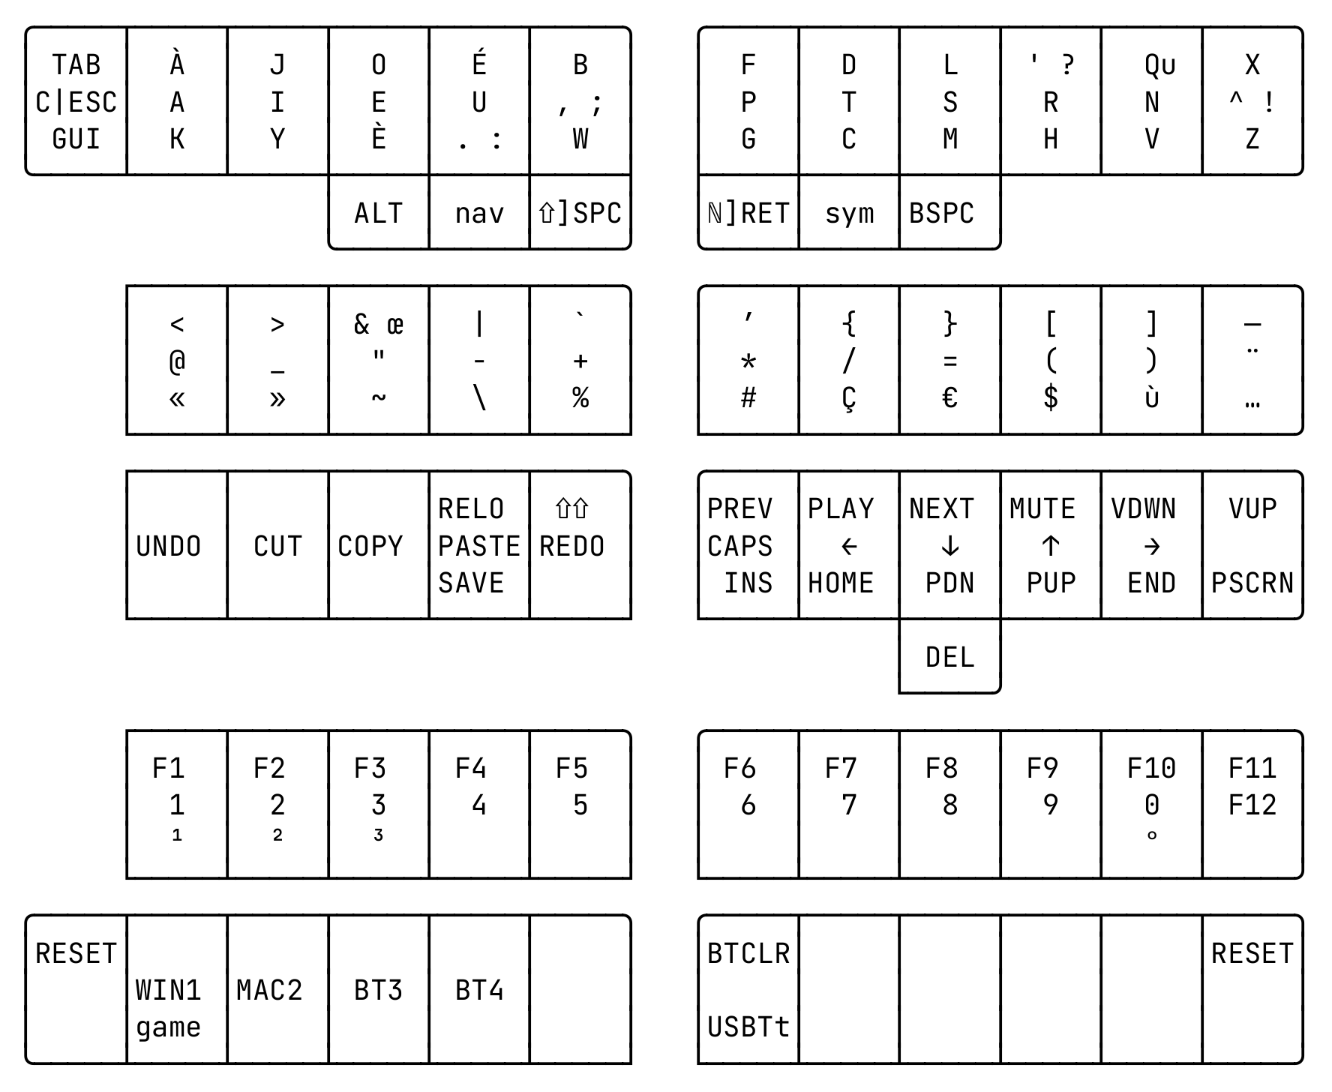
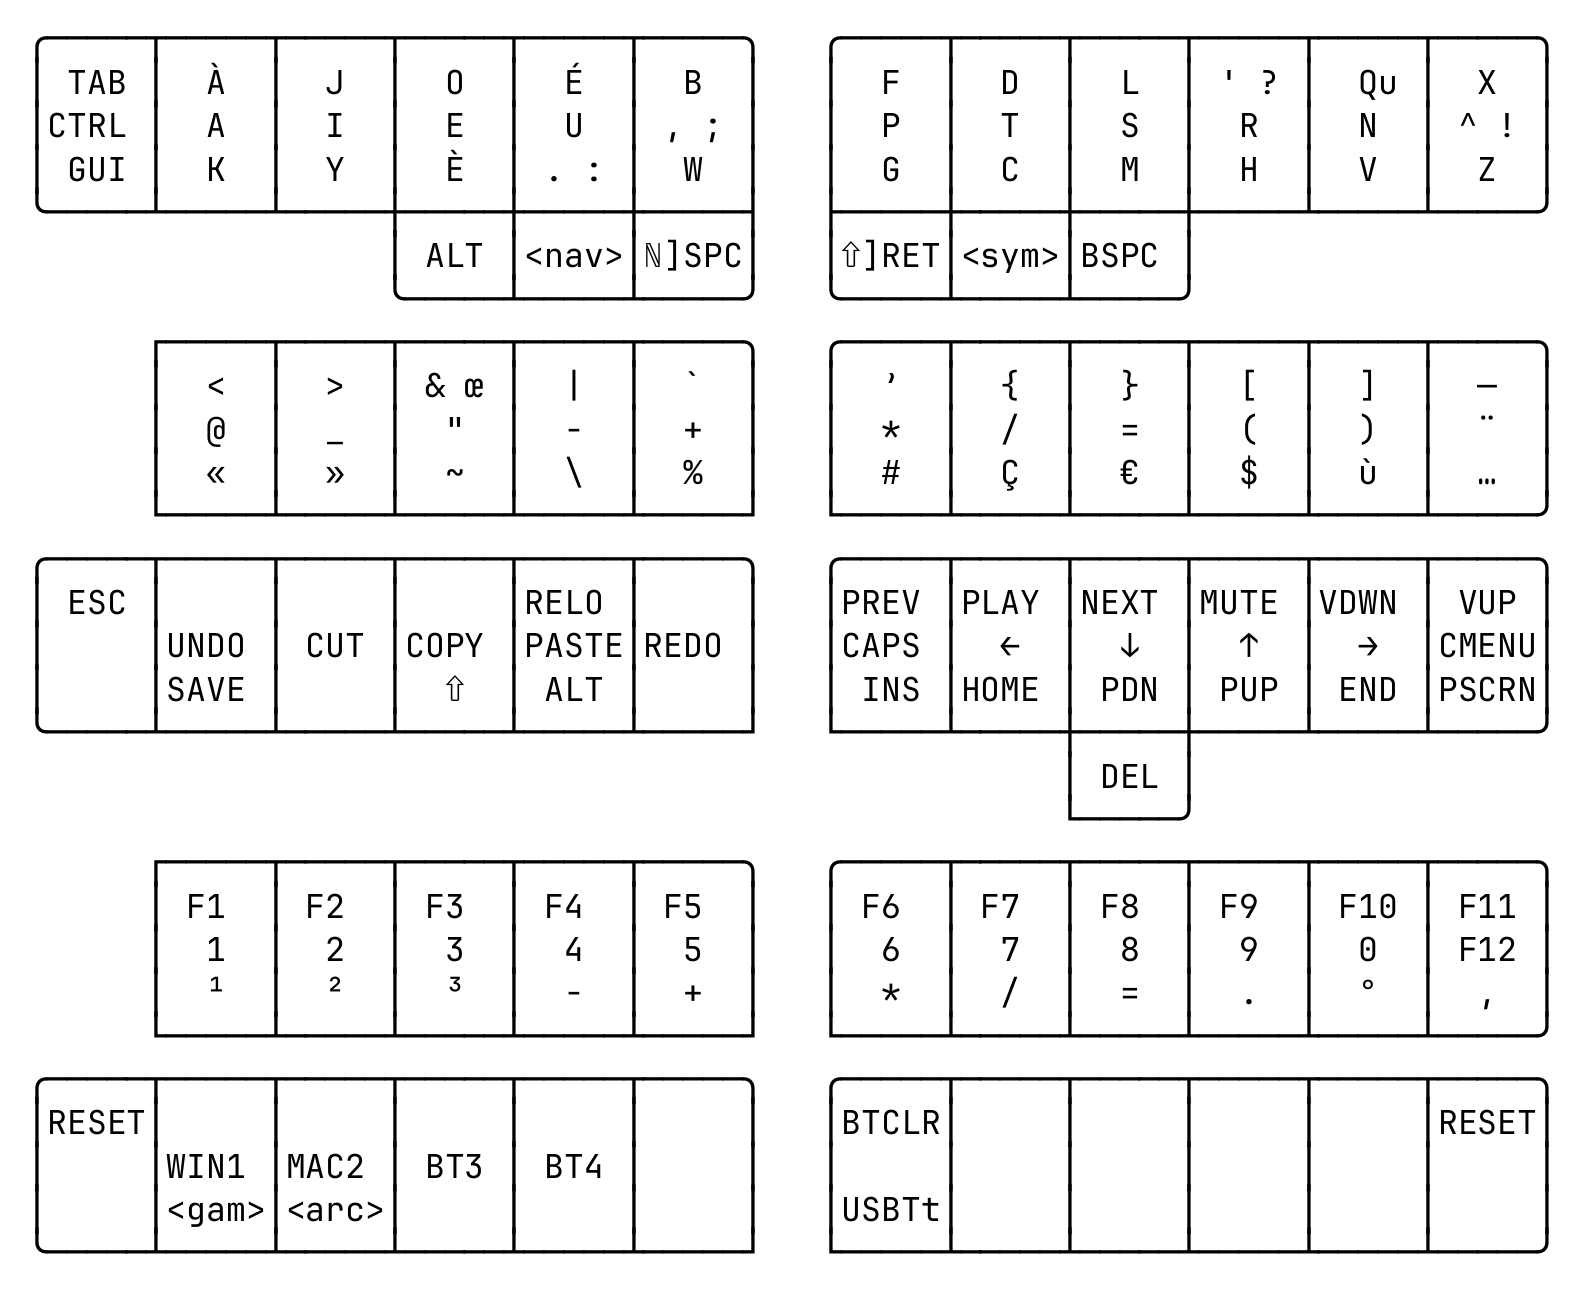
Ergo update
- Switch SPACE and RETURN to allow SHIFT + RETURN
- Move ESC to <nav>
- Add LALT to <nav> to allow ALT + arrows
- Add arithmetics on <num>
- Add CONTEXT_MENU to <nav>

diff --git a/config/node_free.h b/config/node_free.h
@@ -1,7 +1,5 @@
 #pragma once
 
-#define STRINGIFY(x) #x
-
 #define MORPH(name, k1, modifiers, k2) \
 / { \
   behaviors { \
@@ -45,12 +43,12 @@
   }; \
 };
 
-#define LAYER(name, layout) \
+#define LAYER(id, display_name, layout) \
 / { \
   keymap { \
     compatible = "zmk,keymap"; \
-    name##_layer { \
-      label = STRINGIFY(name); \
+    id##_layer { \
+      label = display_name; \
       bindings = <layout>; \
     }; \
   }; \

diff --git a/README.md b/README.md
@@ -6,6 +6,6 @@
 - Bindings for:
     - Linux French alt.
     - Windows Azerty
-    - macOS Azerty
+    - MacOS Azerty (WIP)
 
 ![layers](layers.png)
